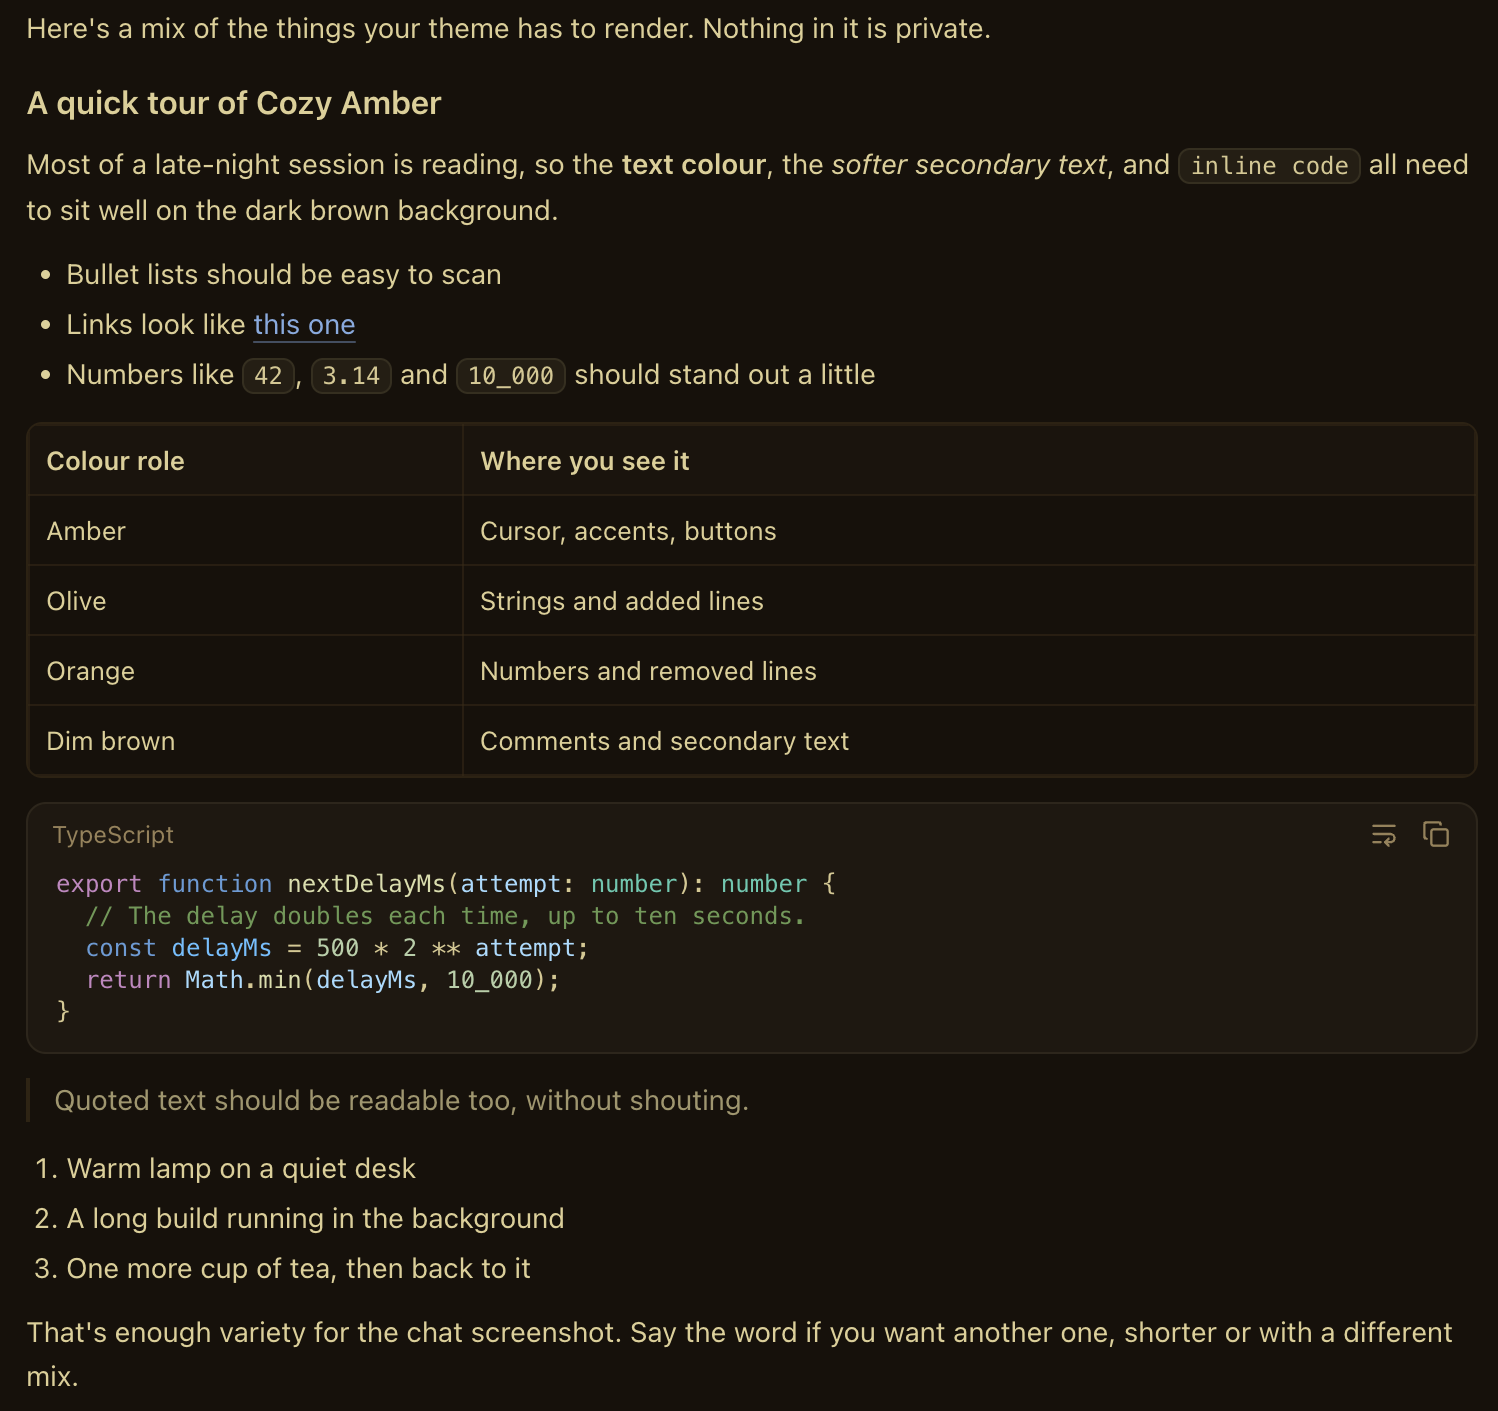
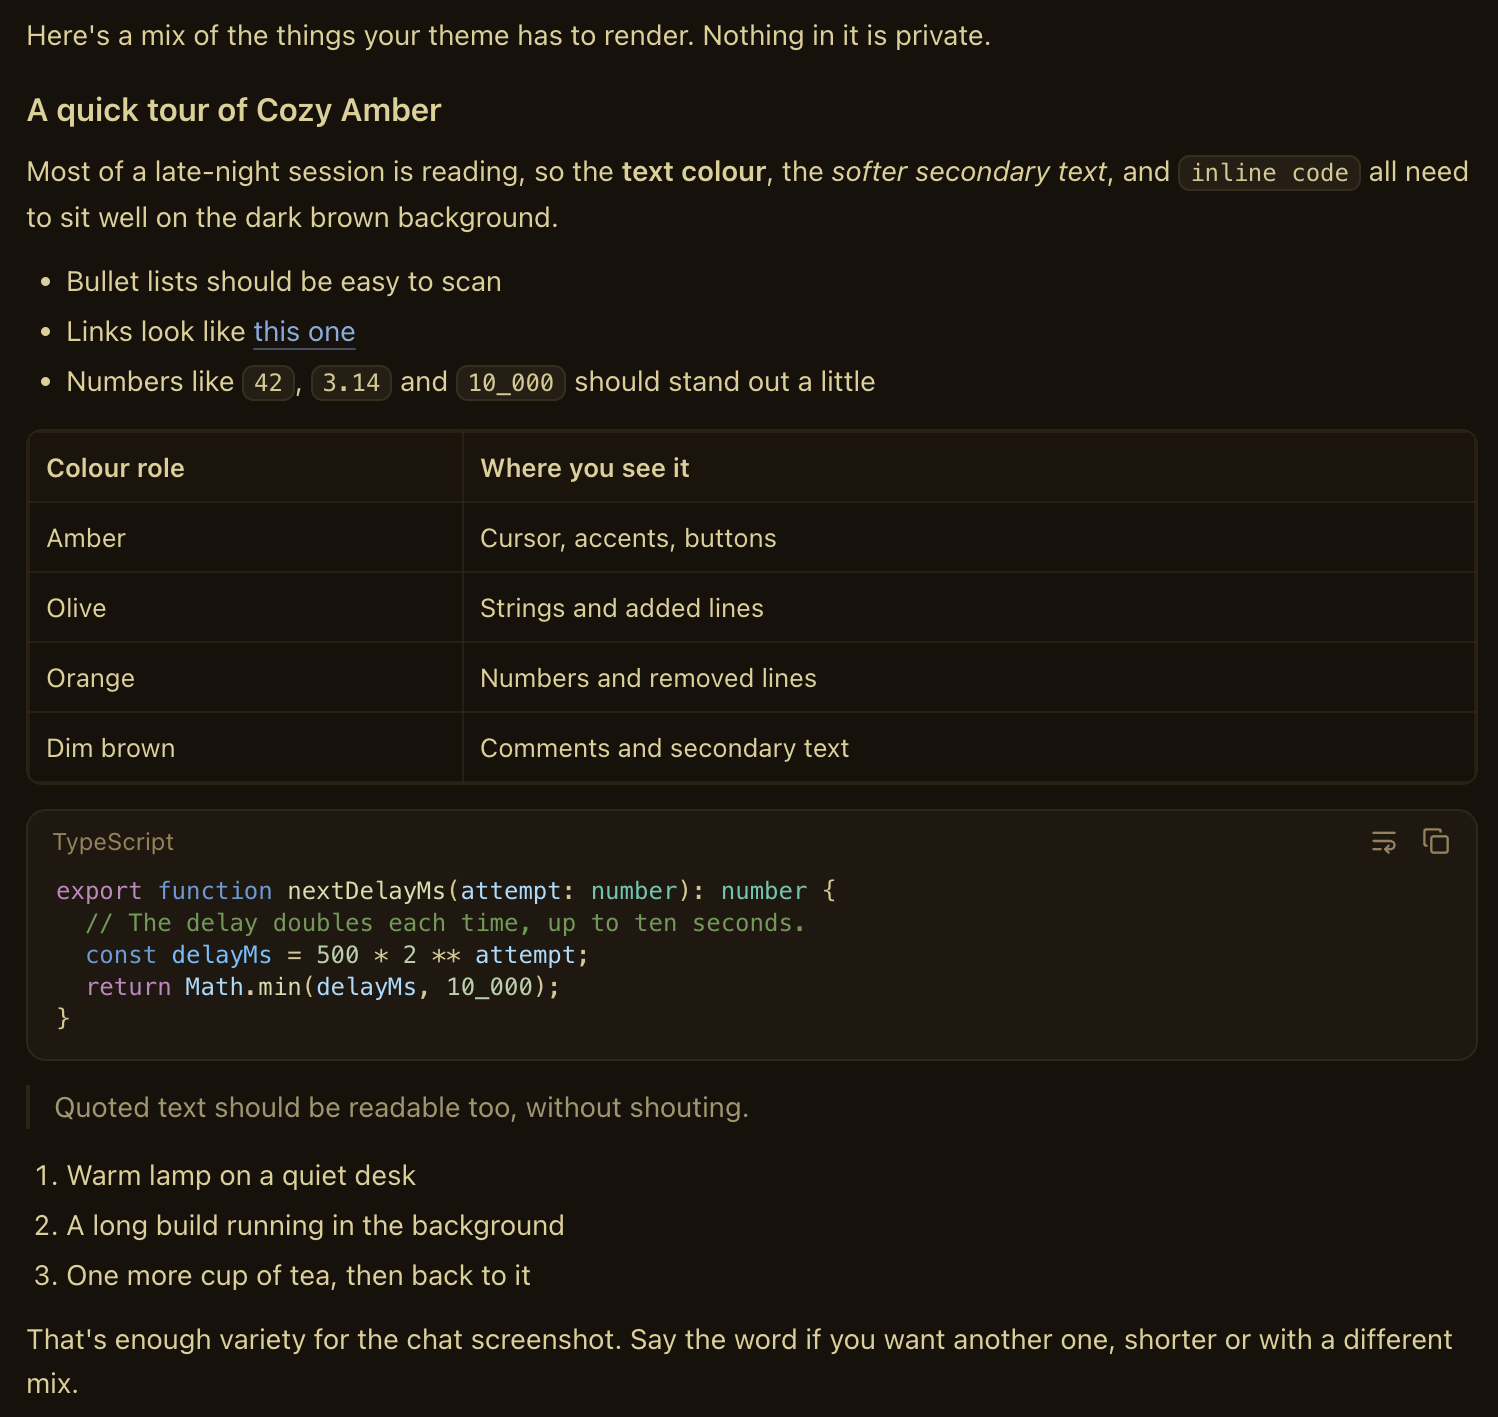
Update chat screenshot and add terminal screenshot

diff --git a/README.md b/README.md
@@ -11,3 +11,7 @@ Made by Mohammed Alamgir.
 ### Chat
 
 ![Chat with the Cozy Amber theme](screenshots/chat.png)
+
+### Terminal
+
+![Terminal with the Cozy Amber theme](screenshots/terminal.png)
